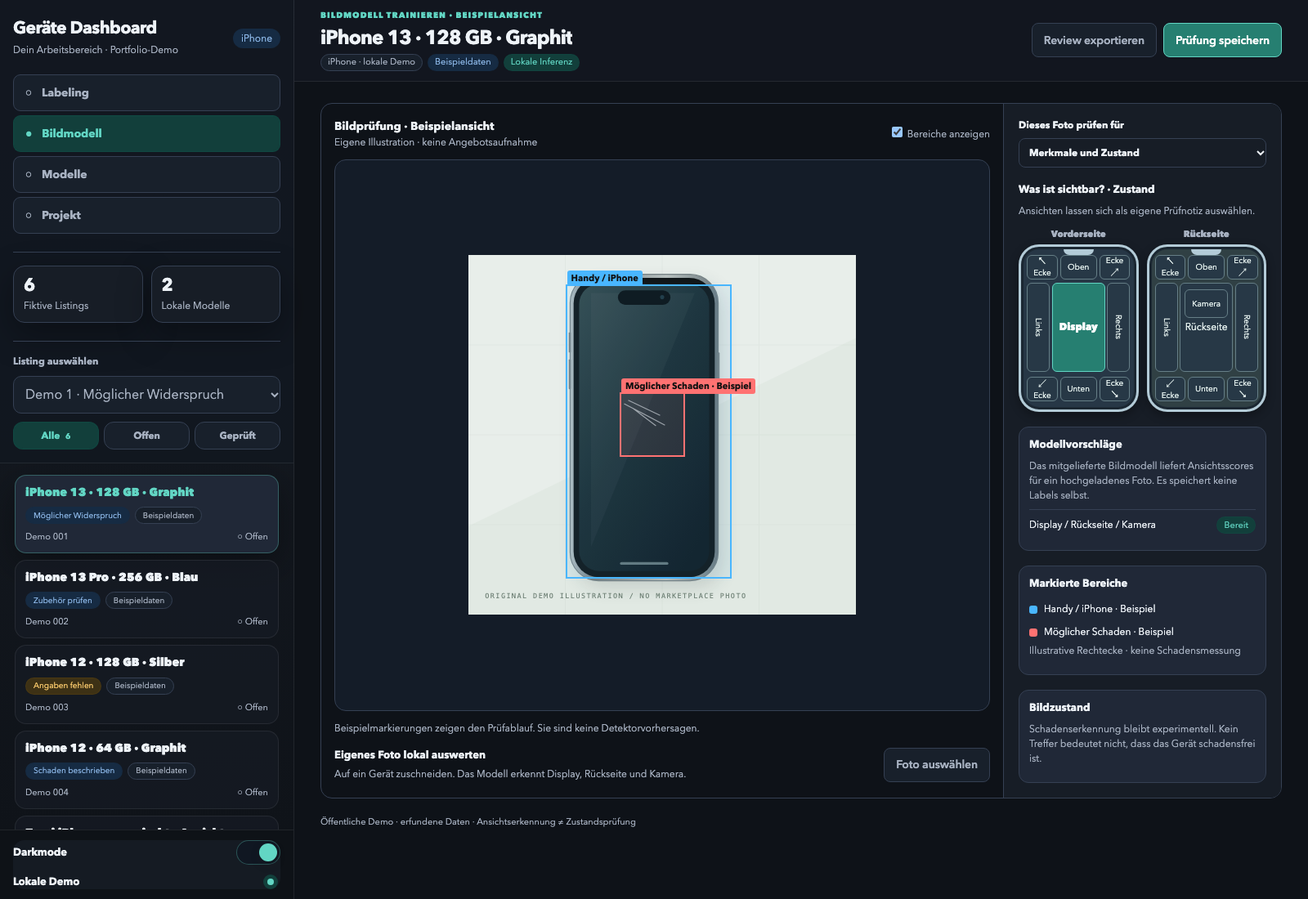
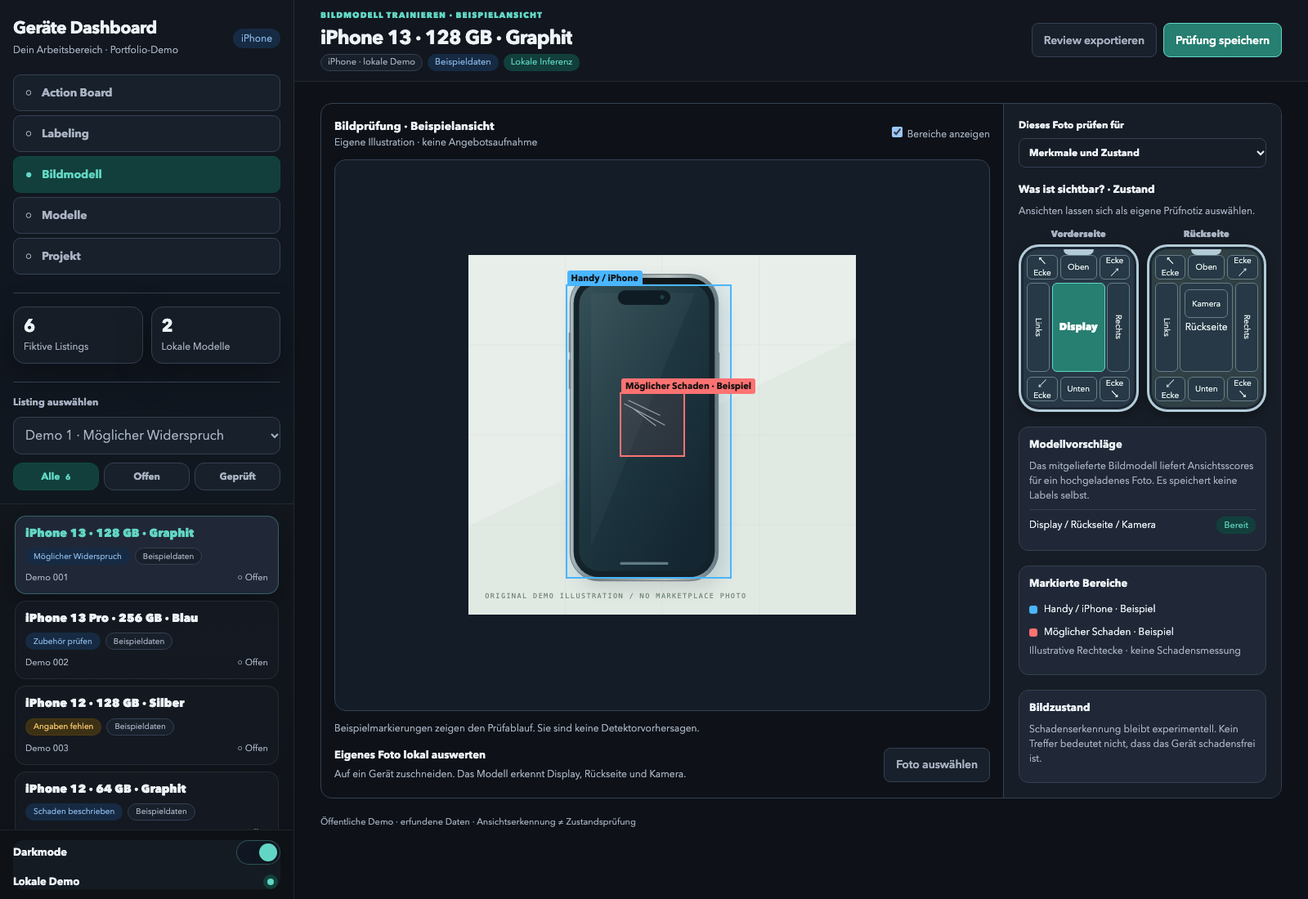
Add Action Board screenshot and remove mobile presentation

diff --git a/app/board.css b/app/board.css
@@ -1,0 +1,68 @@
+/* Original Action Board presentation, using only fictional public fixtures. */
+.board-listings-table .model-status-row, .board-model-headings { display: grid; grid-template-columns: repeat(4, 40px); gap: 10px; justify-items: center; }
+.board-model-headings { margin-top: 6px; font-size: 10px; font-weight: 400; text-transform: none; letter-spacing: normal; }
+.collective-summary .panel-heading>.muted {font-size:9px;text-align:right;}
+.collective-stat-table {width:100%;border-collapse:collapse;font-size:11px;line-height:1.15;}
+.collective-stat-table th,.collective-stat-table td {padding:3px 10px;border-bottom:1px solid var(--line);font-size:11px;white-space:nowrap;}
+.collective-stat-table thead th {padding-top:7px;padding-bottom:7px;font-size:10px;font-weight:600;text-transform:none;letter-spacing:0;text-align:right;background:var(--panel-strong);}
+.collective-stat-table th:first-child {text-align:left;}
+.collective-stat-table tbody th {font-weight:500;text-transform:none;letter-spacing:0;background:transparent;}
+.collective-stat-table td {text-align:right;font-variant-numeric:tabular-nums;}
+.collective-stat-table td:last-child {font-weight:700;}
+.collective-footnote {padding:6px 11px;margin:0;font-size:9px;color:var(--muted);line-height:1.3;}
+.collective-controls {display:grid;grid-template-rows:1.25fr 1fr 1fr;gap:8px;min-width:0;}
+.collective-controls>.panel {display:flex;flex-direction:column;}
+.collective-controls .panel-body {flex:1;display:flex;flex-direction:column;justify-content:center;gap:8px;}
+.collective-summary {display:grid;grid-template-rows:auto minmax(0,1fr) auto;}
+.collective-summary>.table-wrap {height:100%;}
+.collective-summary .collective-stat-table {height:100%;}
+.collective-controls .panel-heading {padding:9px 12px;}
+.collective-controls .panel-heading h2 {font-size:13px;}
+.collective-controls .panel-body {padding:10px 12px;}
+.collective-controls .btn {padding:7px 10px;min-height:32px;font-size:12px;}
+.collective-controls small,.collective-controls .muted {font-size:11px;line-height:1.3;}
+.collective-controls .collective-archive {display:flex;flex-direction:row;align-items:center;justify-content:flex-start;gap:8px;}
+.collective-tabs {display:flex;gap:22px;align-items:center;border-bottom:1px solid var(--line);margin-bottom:14px;overflow:auto;}
+.collective-tabs button,.collective-tabs a {text-decoration:none;display:flex;gap:8px;align-items:center;background:none;border:0;border-bottom:3px solid transparent;padding:0 0 10px;font:inherit;font-size:12px;font-weight:600;color:var(--muted);white-space:nowrap;cursor:pointer;}
+.collective-tabs button[aria-selected=true] {color:var(--accent);border-bottom-color:var(--accent);}
+.collective-tabs button>span {padding:2px 6px;border-radius:4px;background:var(--panel-strong);font-size:10px;}
+.collective-tabs button[aria-selected=true]>span {background:var(--accent-weak);}
+.collective-listings .panel-heading {padding:10px 12px;}
+.collective-listings .panel-heading h2 {font-size:15px;}
+.collective-table-tools {display:flex;gap:8px;align-items:center;}
+.collective-table-tools input,.collective-table-tools select {min-width:0;height:29px;padding:5px 8px;background:var(--panel);color:var(--text);border:1px solid var(--line);border-radius:5px;font:inherit;font-size:11px;}
+.collective-table-tools input {width:210px;}
+.collective-device {display:flex;gap:9px;align-items:center;}
+.collective-device strong {font-size:12px;line-height:1.4;}
+.collective-device-icon {display:inline-block;position:relative;width:21px;height:31px;flex:none;border:1px solid #91a6ad;border-radius:4px;background:#32454d;}
+.collective-device-icon:after {content:'';position:absolute;top:3px;left:6px;width:8px;height:2px;border-radius:2px;background:#15252b;}
+.collective-device-icon.tablet {width:25px;border-radius:3px;background:#304757;}
+.collective-device-icon.pixel:after {left:1px;top:5px;width:17px;height:5px;border-radius:2px;background:#132d29;}
+.collective-device-icon.samsung:after {left:3px;top:4px;width:3px;height:3px;background:#0e2824;box-shadow:0 5px #0e2824,0 10px #0e2824;}
+.collective-listings .board-listings-table th,.collective-listings .board-listings-table td {padding-top:8px;padding-bottom:8px;}
+.collective-listings .board-listings-table .board-cost {padding-left:12px;}
+.collective-listings .board-listings-table .board-models {padding-left:12px;}
+.collective-listings .board-model-headings,.collective-listings .model-status-row {grid-template-columns:repeat(4,28px);gap:6px;}
+.collective-listings .quote-value {font-size:13px;}
+.collective-listings .quote-timestamp {font-size:9px;padding:2px 4px;margin-top:3px;}
+.collective-pagination {display:flex;gap:7px;align-items:center;padding:9px 12px;}
+.collective-pagination>span {margin-right:auto;font-size:10px;color:var(--muted);}
+.collective-pagination .btn {font-size:10px;min-height:27px;padding:5px 8px;}
+.collective-stat-table th,.collective-stat-table td {padding-top:2px;padding-bottom:2px;}
+.collective-stat-table thead th {padding-top:5px;padding-bottom:5px;}
+.collective-summary {display:block;}
+.collective-summary summary {cursor:pointer;list-style:none;}
+.collective-summary summary::after {content:'▸';margin-left:auto;color:var(--muted);}
+.collective-summary[open] summary::after {content:'▾';}
+.collective-hourly.collective-controls {display:grid;grid-template-columns:minmax(0,1fr);grid-template-rows:auto;gap:8px;max-width:none;padding:12px;align-items:stretch;}
+.collective-listings .board-listings-table td {vertical-align:middle;}
+.collective-listings .board-listings-table td:nth-child(9),.collective-listings .board-listings-table td:nth-child(10) {white-space:nowrap;}
+.collective-listings .board-model-headings,.collective-listings .model-status-row {grid-template-columns:repeat(4,52px);gap:4px;}
+.collective-listings .board-model-headings span {white-space:nowrap;}
+.collective-listings .board-listings-table .board-models {min-width:232px;}
+.collective-listings .collective-secondary {display:inline-flex!important;}
+.collective-summary .collective-stat-table {height:auto;}
+.collective-summary .collective-stat-table th,.collective-summary .collective-stat-table td {padding:7px 10px;font-size:12px;line-height:1.35;}
+.collective-summary .collective-stat-table thead th {font-size:11px;}
+.collective-listings .board-listings-table tbody tr[data-collective-key] {height:88px;}
+.collective-device strong {display:-webkit-box;-webkit-line-clamp:3;-webkit-box-orient:vertical;overflow:hidden;}

diff --git a/app/board.js b/app/board.js
@@ -1,0 +1,67 @@
+// Public Action Board. All amounts and non-text facts are authored UI fixtures.
+const boardFixtures={
+  'surface-review':{box:'yes',battery:89,cost:189,quote:235,review:true,missing:false},
+  'accessory-check':{box:'yes',battery:92,cost:279,quote:310,review:false,missing:true},
+  'honest-uncertainty':{box:'unknown',battery:null,cost:159,quote:190,review:false,missing:true},
+  'stated-damage':{box:'no',battery:81,cost:119,quote:145,review:false,missing:false},
+  'multiple-devices':{box:'unknown',battery:null,cost:249,quote:null,review:true,missing:true},
+  'restricted-device':{box:'no',battery:87,cost:169,quote:210,review:true,missing:false}
+};
+let boardResults=new Map(),boardFilter='all',boardRequest=0;
+const euro=value=>value===null?'–':new Intl.NumberFormat('de-DE',{style:'currency',currency:'EUR',maximumFractionDigits:0}).format(value);
+function boardFact(value,negativeIsRisk=false){
+  const tone=value==='unknown'?'warn':value==='yes'&&negativeIsRisk?'bad':value==='no'&&!negativeIsRisk?'warn':'ok';
+  const text=value==='unknown'?'?':value==='yes'?'✓':'—';
+  return `<span class="pill ${tone}" title="${values[value]||'Unbekannt'}">${text}</span>`;
+}
+function renderBoard(){
+  if(!cases.length)return;
+  const query=$('#board-search').value.toLowerCase().trim();
+  const rows=cases.filter((item,index)=>{
+    const fixture=boardFixtures[item.id];
+    return (boardFilter==='all'||(boardFilter==='review'?fixture.review:fixture.missing))&&
+      `${titles[item.id][0]} demo ${index+1} ${titles[item.id][1]}`.toLowerCase().includes(query);
+  });
+  if($('#board-sort').value==='name')rows.sort((a,b)=>titles[a.id][0].localeCompare(titles[b.id][0]));
+  $('#board-rows').innerHTML=rows.map(item=>{
+    const fixture=boardFixtures[item.id],result=boardResults.get(item.id),index=cases.indexOf(item)+1;
+    const cable=result?.fields.cable_included.value||'unknown';
+    const damage=result?.fields.screen_damage.value||'unknown';
+    const difference=fixture.quote===null?null:fixture.quote-fixture.cost;
+    return `<tr data-board-case="${item.id}"><td><div class="collective-device"><i class="collective-device-icon"></i><strong>${titles[item.id][0]}</strong></div><span class="board-demo-id">Demo ${String(index).padStart(3,'0')} · Beispieldaten</span></td><td>${boardFact(fixture.box)}</td><td>${boardFact(cable)}</td><td><span class="pill ${fixture.battery?'ok':'warn'}">${fixture.battery?fixture.battery+' %':'?'}</span></td><td>${boardFact(damage,true)}</td><td class="board-money">${euro(fixture.cost)}</td><td><strong>${euro(fixture.quote)}</strong><small class="board-demo-id">Fiktiver Vergleich</small></td><td><span class="pill ${difference===null?'warn':'ok'}">${euro(difference)}</span></td><td><span class="pill ${fixture.review?'warn':fixture.missing?'info':'ok'}">${fixture.review?'Prüfen':fixture.missing?'Angaben offen':'Text ausgewertet'}</span></td><td><div class="board-model-headings model-status-row"><span class="model-indicator ${result?'done':''}" title="${result?'Textmodell tatsächlich ausgeführt':'Textmodell offen'}">${result?'✓':'○'}</span><span class="model-indicator" title="Merkmalsmodell nicht ausgeführt">○</span><span class="model-indicator" title="Schadensmodell nicht ausgeführt">○</span></div></td><td><button class="btn" data-open-board-case="${item.id}">Prüfen ↗</button></td></tr>`;
+  }).join('')||'<tr><td colspan="11" class="collective-empty">Keine passenden Beispielangebote.</td></tr>';
+  $('#board-count').textContent=`${rows.length} Angebote · Seite 1 / 1`;
+  const metrics=[['Listings im Action Board',cases.length],['Textprüfung vorhanden',boardResults.size],['Textprüfung offen',cases.length-boardResults.size],['Zur Prüfung markiert',cases.filter(item=>boardFixtures[item.id].review).length],['Angaben offen',cases.filter(item=>boardFixtures[item.id].missing).length]];
+  $('#board-summary').innerHTML=metrics.map(([label,total])=>`<tr><th scope="row">${label}</th><td>${total}</td><td>0</td><td>0</td><td>0</td><td>0</td><td>${total}</td></tr>`).join('');
+  document.querySelectorAll('[data-open-board-case]').forEach(button=>button.onclick=()=>{
+    $('#case-select').value=button.dataset.openBoardCase;showCase(button.dataset.openBoardCase);setView('review');
+  });
+}
+async function analyseBoard(){
+  if(!cases.length)return;
+  const request=++boardRequest;
+  $('#board-analyse').disabled=true;$('#board-model-status').textContent='Textauswertung läuft …';
+  try{
+    const results=await Promise.all(cases.map(async item=>{
+      const response=await fetch('/api/text',{method:'POST',headers:{'Content-Type':'application/json'},body:JSON.stringify({text:item.text})});
+      const result=await response.json();if(!response.ok)throw new Error(result.error);return [item.id,result];
+    }));
+    if(request!==boardRequest)return;
+    boardResults=new Map(results);renderBoard();$('#board-model-status').textContent=`Text · ${results.length} / ${cases.length} ausgewertet`;
+    $('#board-feedback').textContent='Textfelder wurden mit dem öffentlichen Modell ausgewertet. Zubehör-, Akku-, Preis- und Prüfbedarfsangaben sind erfundene UI-Beispiele. Die Bildmodelle wurden für diese Übersicht nicht ausgeführt.';
+  }catch(error){if(request===boardRequest){$('#board-model-status').textContent='Textauswertung fehlgeschlagen';$('#board-feedback').textContent=error.message;}}
+  finally{if(request===boardRequest)$('#board-analyse').disabled=false;}
+}
+$('#board-analyse').addEventListener('click',analyseBoard);
+$('#board-search').addEventListener('input',renderBoard);
+$('#board-sort').addEventListener('change',renderBoard);
+document.querySelectorAll('[data-board-filter]').forEach(button=>button.onclick=()=>{
+  boardFilter=button.dataset.boardFilter;
+  document.querySelectorAll('[data-board-filter]').forEach(tab=>tab.setAttribute('aria-selected',String(tab===button)));
+  renderBoard();
+});
+$('#board-reset').addEventListener('click',()=>{
+  $('#board-search').value='';$('#board-sort').value='id';document.querySelector('[data-board-filter=all]').click();analyseBoard();
+});
+document.addEventListener('public-cases-ready',()=>{renderBoard();analyseBoard();});
+if(cases.length){renderBoard();analyseBoard();}

diff --git a/app/index.html b/app/index.html
@@ -6,8 +6,10 @@
   <link rel="icon" href="data:,">
   <link rel="stylesheet" href="/app/dashboard.css">
   <link rel="stylesheet" href="/app/phone-map.css">
+  <link rel="stylesheet" href="/app/board.css">
   <link rel="stylesheet" href="/app/style.css">
   <script src="/app/main.js" defer></script>
+  <script src="/app/board.js" defer></script>
 </head>
 <body>
 <div class="app">
@@ -15,6 +17,7 @@
     <div class="sidebar-top">
       <div class="brand-line"><div class="brand"><h1>Geräte Dashboard</h1><p>Dein Arbeitsbereich · Portfolio-Demo</p></div><span class="pill info">iPhone</span></div>
       <nav class="section-switch" aria-label="Arbeitsbereiche">
+        <button type="button" data-view="board">Action Board</button>
         <button type="button" data-view="review" class="active">Labeling</button>
         <button type="button" data-view="image">Bildmodell</button>
         <button type="button" data-view="models">Modelle</button>
@@ -29,6 +32,15 @@
   <main class="main-shell labeling-shell">
     <header class="main-header"><div><p id="detail-eyebrow" class="eyebrow">Labeling · Textmodell</p><div class="title-row"><h2 id="case-title" class="main-title">Listing laden …</h2></div><div class="meta-line"><span id="case-device" class="pill"></span><span class="pill info">Beispieldaten</span><span class="pill ok">Lokale Inferenz</span></div></div><div class="actions"><button id="export" class="btn">Review exportieren</button><button id="review" class="btn primary">Prüfung speichern</button></div></header>
     <div class="main-content" id="mainContent">
+      <section id="board-view" class="view" hidden>
+        <div class="public-board-top">
+          <section class="panel collective-summary"><div class="panel-heading"><h2>Action Board · Übersicht</h2><span class="muted">Öffentliche Beispieldaten</span></div><div class="table-wrap"><table class="collective-stat-table"><thead><tr><th>Aktueller Bestand</th><th>iPhone</th><th>Android</th><th>iPad</th><th>Watch</th><th>Konsole</th><th>Gesamt</th></tr></thead><tbody id="board-summary"></tbody></table></div><p class="collective-footnote">Alle Geräte, Preise und Vergleichswerte sind erfunden. Keine Anbieteranbindung oder Auswahlregel.</p></section>
+          <div class="collective-controls"><section class="panel"><div class="panel-heading"><h2>Datenbestand</h2></div><div class="panel-body"><div class="board-control-line"><span class="pill info">6 erfundene Listings</span><button id="board-reset" class="btn">Beispiele laden</button></div><small class="muted">Lokaler Beispieldatensatz · kein Marktplatzabruf</small></div></section><section class="panel"><div class="panel-heading"><h2>Modelle / Prüfung</h2></div><div class="panel-body"><div class="board-control-line"><span class="pill ok" id="board-model-status">Textmodell bereit</span><button id="board-analyse" class="btn primary">Textmodell ausführen</button></div><small class="muted">Textauswertung für alle Beispielangebote. Bildprüfung pro Gerät öffnen.</small></div></section></div>
+        </div>
+        <div class="collective-tabs" role="tablist" aria-label="Action-Board-Bereiche"><button type="button" data-board-filter="all" role="tab" aria-selected="true">Alle Beispiele <span>6</span></button><button type="button" data-board-filter="review" role="tab" aria-selected="false">Prüfbedarf <span>3</span></button><button type="button" data-board-filter="missing" role="tab" aria-selected="false">Angaben offen <span>3</span></button></div>
+        <section class="panel collective-listings"><div class="panel-heading"><h2>Listings und Prüfstatus</h2><div class="collective-table-tools"><input id="board-search" type="search" class="search" placeholder="Titel, Modell oder Demo-ID" aria-label="Angebote im Action Board durchsuchen"><select id="board-sort" aria-label="Sortierung"><option value="id">Demo-Reihenfolge</option><option value="name">Modellname</option></select></div></div><div class="table-wrap"><table class="board-listings-table"><thead><tr><th>Gerät</th><th>OVP</th><th>Kabel</th><th>Akku</th><th>Display-<br>Schäden</th><th>Kosten inkl.<br>Versand</th><th>Beispielankauf<br><span class="muted">Fiktiver Wert</span></th><th>Differenz</th><th>Textprüfung</th><th><span>Modelle / Prüfung</span><div class="board-model-headings"><span>Text</span><span>Merkmale</span><span>Zustand</span></div></th><th>Aktionen</th></tr></thead><tbody id="board-rows"></tbody></table></div><div class="collective-pagination"><span id="board-count">6 Angebote · Seite 1 / 1</span><span class="muted">Nur Beispieldaten</span></div></section>
+        <p class="board-disclosure" id="board-feedback" role="status">Textfelder werden mit dem öffentlichen Modell ausgewertet. Zubehör-, Akku- und Preisangaben sind ausdrücklich erfundene UI-Beispiele. Bildmodelle werden in dieser Übersicht nicht als ausgeführt dargestellt.</p>
+      </section>
       <section id="review-view" class="view">
         <div class="workspace text-workspace">
           <section class="panel text-description-panel"><h2>Beschreibung</h2><div class="panel-body"><div class="description-source muted">Erfundenes Angebot · Angaben aus dem Beschreibungstext</div><div id="highlighted-description" class="description"></div><div class="evidence-legend"><span><i class="evidence-color condition"></i>Zustand</span><span><i class="evidence-color accessory"></i>Zubehör</span><span><i class="evidence-color technical"></i>Technische Angaben</span></div><div class="text-analysis-note muted">Markierungen stammen aus Textregeln. Modellvorschläge werden separat angezeigt.</div><details class="text-editor" open><summary>Beschreibung bearbeiten</summary><label class="search-label" for="description">Titel / Beschreibung · fiktives Beispiel</label><textarea id="description" rows="5" maxlength="20000" spellcheck="false"></textarea><div class="editor-actions"><span class="muted">Änderungen bleiben lokal.</span><button id="analyse" class="btn secondary">Textmodell ausführen</button></div></details><section class="review-note"><strong id="case-tag"></strong><p id="case-note"></p></section><details class="text-evidence-tools"><summary>Textmarkierungen anzeigen</summary><div id="evidence"></div></details></div></section>

diff --git a/app/main.js b/app/main.js
@@ -22,16 +22,17 @@ $('#themeToggle').addEventListener('click',()=>applyTheme(!document.documentElem
 try{applyTheme(localStorage.getItem('dashboardTheme')==='dark');}catch{applyTheme(false);}
 
 function setView(name){
-  if(!['review','image','models','about'].includes(name))name='review';
+  if(!['board','review','image','models','about'].includes(name))name='review';
   activeView=name;
-  for(const view of ['review','image','models','about'])$(`#${view}-view`).hidden=view!==name;
+  for(const view of ['board','review','image','models','about'])$(`#${view}-view`).hidden=view!==name;
   document.querySelectorAll('nav [data-view]').forEach(button=>{
     button.classList.toggle('active',button.dataset.view===name);
     button.setAttribute('aria-current',button.dataset.view===name?'page':'false');
   });
-  const headings={review:'Labeling · Textmodell',image:'Bildmodell trainieren · Beispielansicht',models:'Modellübersicht',about:'Projektüberblick'};
+  const headings={board:'Dashboard · Übersicht',review:'Labeling · Textmodell',image:'Bildmodell trainieren · Beispielansicht',models:'Modellübersicht',about:'Projektüberblick'};
   $('#detail-eyebrow').textContent=headings[name];
-  $('#case-title').textContent=name==='models'?'Text- und Bildmodelle':name==='about'?'Multimodale Geräteprüfung':current?titles[current.id][0]:'Listing laden …';
+  $('#case-title').textContent=name==='board'?'Action Board':name==='models'?'Text- und Bildmodelle':name==='about'?'Multimodale Geräteprüfung':current?titles[current.id][0]:'Listing laden …';
+  document.querySelector('.main-header > .actions').hidden=['board','models','about'].includes(name);
   history.replaceState(null,'',name==='review'?'/':`/?view=${name}`);
 }
 document.querySelectorAll('nav [data-view]').forEach(button=>button.addEventListener('click',()=>setView(button.dataset.view)));
@@ -148,6 +149,7 @@ async function start(){
     $('#manual-labels').innerHTML=Object.entries(labels).map(([field,label])=>`<label>${label}<select data-manual-field="${field}" aria-label="Eigene Prüfung: ${label}"><option value="">Ungeprüft</option><option value="yes">Ja</option><option value="no">Nein</option><option value="unknown">Unbekannt</option></select></label>`).join('');
     $('#manual-labels').addEventListener('change',()=>invalidateReview(false));
     const response=await fetch('/api/examples');cases=await response.json();
+    document.dispatchEvent(new Event('public-cases-ready'));
     $('#case-select').innerHTML=cases.map((item,i)=>`<option value="${item.id}">Demo ${i+1} · ${titles[item.id][1]}</option>`).join('');
     activeView=new URLSearchParams(location.search).get('view')||'review';showCase(cases[0].id);
   }catch(error){$('#text-results').textContent='Bitte den lokalen Python-Demoserver starten.';}

diff --git a/app/style.css b/app/style.css
@@ -8,3 +8,7 @@
 /* Keep the original desktop navigation stack and hero-pill treatment. */
 @media(min-width:761px){.section-switch{grid-template-columns:minmax(0,1fr)}}
 .hero-pills .pill{color:rgba(255,255,255,.9);background:rgba(255,255,255,.08);border-color:rgba(255,255,255,.18)}
+/* Public fixtures in the original Action Board layout. */
+.public-board-top{display:grid;grid-template-columns:minmax(0,1.4fr) minmax(320px,1fr);gap:14px;margin-bottom:20px}.public-board-top .collective-stat-table{height:auto}.public-board-top .collective-stat-table th,.public-board-top .collective-stat-table td{padding:10px;font-size:12px}.public-board-top .collective-controls{grid-template-rows:1fr 1fr}.public-board-top .collective-controls .panel-body{justify-content:center}.board-control-line{display:flex;justify-content:space-between;gap:12px;align-items:center}.board-disclosure{font-size:11px;line-height:1.6;color:var(--muted);margin-top:16px}.collective-listings .board-listings-table{table-layout:auto;min-width:1080px}.collective-listings .board-listings-table th{position:static;font-size:10px;white-space:nowrap;text-transform:none;letter-spacing:0}.collective-listings .board-listings-table td{font-size:11px;padding:17px 8px;vertical-align:middle}.collective-listings .collective-device strong{font-size:12px;max-width:165px;line-height:1.4}.collective-listings .pill{font-size:10px;min-height:22px;padding:2px 6px;white-space:nowrap}.collective-listings .board-model-headings{display:grid;grid-template-columns:repeat(3,38px);gap:4px;margin-top:7px;text-align:center;font-size:8px;color:var(--muted)}.collective-listings .model-status-row{margin-top:0}.model-indicator{display:grid;place-items:center;height:26px;border:1px solid var(--line);border-radius:5px;color:var(--muted);font-size:14px}.model-indicator.done{color:var(--accent);background:var(--accent-weak);border-color:var(--accent)}.board-demo-id{display:block;font-size:9px;color:var(--muted);margin-top:5px;white-space:nowrap}.board-money{white-space:nowrap}.collective-listings .btn{font-size:10px;padding:7px 8px;min-height:30px;white-space:nowrap}.collective-listings .collective-table-tools input{width:210px}.collective-pagination .muted{margin-left:auto}.collective-stat-table tbody th{white-space:nowrap}.collective-stat-table tbody td:last-child{font-weight:800}.collective-listings .panel-heading h2{font-size:15px}.collective-listings .table-wrap{overflow:auto}
+@media(max-width:1150px){.public-board-top{grid-template-columns:1fr}}
+.collective-listings .model-status-row .model-indicator{min-width:28px;width:28px;height:26px;display:grid;place-items:center;justify-self:center}.public-board-top .collective-footnote{padding:8px 11px;line-height:1.5}

diff --git a/README.md b/README.md
@@ -4,6 +4,10 @@
 
 An applied machine-learning portfolio project that turns device descriptions and photos into reviewable suggestions. It combines a small text classifier, a trained device-view model and an inspection interface that keeps predictions separate from confirmed facts.
 
+![Action Board in the original dashboard design, with fictional listings, sample amounts and actual text-model status](docs/screenshots/03-action-board.png)
+
+*Action Board with six fictional listings. Text statuses come from the public classifier. Amounts, battery values and review flags are authored UI examples; they reveal no provider data or selection thresholds. Image models are shown as not run. Search, filters and links to the review workspace work in the demo.*
+
 ![Text review in the original dashboard's dark theme, with highlighted source passages and model suggestions](docs/screenshots/01-review-workspace.png)
 
 *Screenshot of the running public demo using the existing dashboard design. Text suggestions are computed live from fictional descriptions; coloured passages come from separate phrase rules. The interface retains the original German labels, typography, sidebar and light/dark themes.*
@@ -20,7 +24,7 @@ This repository is a focused public edition of a larger private application. The
 |---|---|
 | Text classification | Character TF-IDF and three linear heads: stated screen damage, cable inclusion and account lock |
 | Real image inference | Fine-tuned ResNet18 with three view outputs: display, back and camera |
-| Review interface | Six fictional cases, editable text, local photo upload, source passages and review export |
+| Review interface | Action Board, six fictional cases, editable text, local photo upload, source passages and review export |
 | Vision pipeline | Device localisation adapter, padded crops, coordinate projection and per-photo findings |
 | Training | Reproducible synthetic text baseline; image-training entry point for your own reviewed data |
 | Data integrity | Listing/duplicate grouping and masked loss for unknown image labels |
@@ -73,7 +77,7 @@ An absent detection does not establish an absent object or an undamaged device. 
 - **Modelling:** character features, independent classification heads, transfer learning and partial-label supervision.
 - **Data handling:** annotation semantics, listing-level splits and duplicate grouping.
 - **Inference:** local execution, explicit source types, crop geometry and model-independent orchestration.
-- **Product integration:** editable inputs, asynchronous results, invalidation of stale suggestions and a responsive review interface.
+- **Product integration:** Action Board search and filters, editable inputs, asynchronous results, invalidation of stale suggestions and a dashboard review interface.
 - **Evaluation:** separate training and evaluation entry points, per-class reports and visible limits.
 
 The public UI reuses presentation rules from the original dashboard and its front/back image-labeling maps. Its content and backend are reduced to the public inspection scope. ResNet18 and optional YOLO detectors are existing architectures; the contribution is their adaptation, data handling and integration into an inspectable workflow. The wider private application also includes OCR integration; OCR is not bundled here.

diff --git a/docs/VALIDATION.md b/docs/VALIDATION.md
@@ -10,9 +10,8 @@ Prepared on 2026-11-23. These are local checks, not a claim that hosted CI has r
 | Python package build | Wheel built successfully with Python 3.12 and the configured setuptools backend |
 | Local HTTP API | Actual text and image inference passed |
 | API boundaries | Invalid inputs and cross-origin requests rejected; private/static path boundaries checked |
-| Browser behaviour | Light/dark themes, listing filters, front/back view selection, navigation, case switching, stale-result invalidation and separate manual review labels checked |
-| Visual QA | Four screenshots in the original dashboard design: text review, image review, model overview and mobile layout, captured from the running demo and visually inspected |
-| Mobile layout | No horizontal overflow at 390 px viewport width |
+| Browser behaviour | Action Board search, filters, actual text inference and review navigation; light/dark themes, listing filters, front/back view selection, stale-result invalidation and separate manual labels checked |
+| Visual QA | Four desktop screenshots in the original dashboard design: Action Board, text review, image review and model overview, captured from the running demo and visually inspected |
 | Publication audit | Token/path/address patterns, prohibited file types and selected tensor metadata checked |
 
 ## Interpretation

diff --git a/docs/PUBLISHING.md b/docs/PUBLISHING.md
@@ -50,4 +50,4 @@ Demo starten und in einem separaten Chrome-Profil Headless-Debugging auf Port 92
 node scripts/capture_screenshots.mjs
 ```
 
-Das Skript verwendet ausschließlich den lokalen Chrome-Debugging-Endpunkt und die lokale Demo. Es erstellt vier PNG-Dateien im bestehenden Dashboard-Design: Textprüfung, Bildprüfung, Modellübersicht und mobile Ansicht. Es prüft außerdem Hell-/Dunkelmodus, Ansichtsauswahl, Filter, Navigation, Fallwechsel, die Sperre veralteter Ergebnisse und die mobile Breite. Es ist kein Bestandteil der Python-Laufzeit.
+Das Skript verwendet ausschließlich den lokalen Chrome-Debugging-Endpunkt und die lokale Demo. Es erstellt vier Desktop-PNG-Dateien im bestehenden Dashboard-Design: Action Board, Textprüfung, Bildprüfung und Modellübersicht. Es prüft außerdem Board-Suche und Filter, Hell-/Dunkelmodus, Ansichtsauswahl, Navigation, Fallwechsel und die Sperre veralteter Ergebnisse. Es ist kein Bestandteil der Python-Laufzeit.
